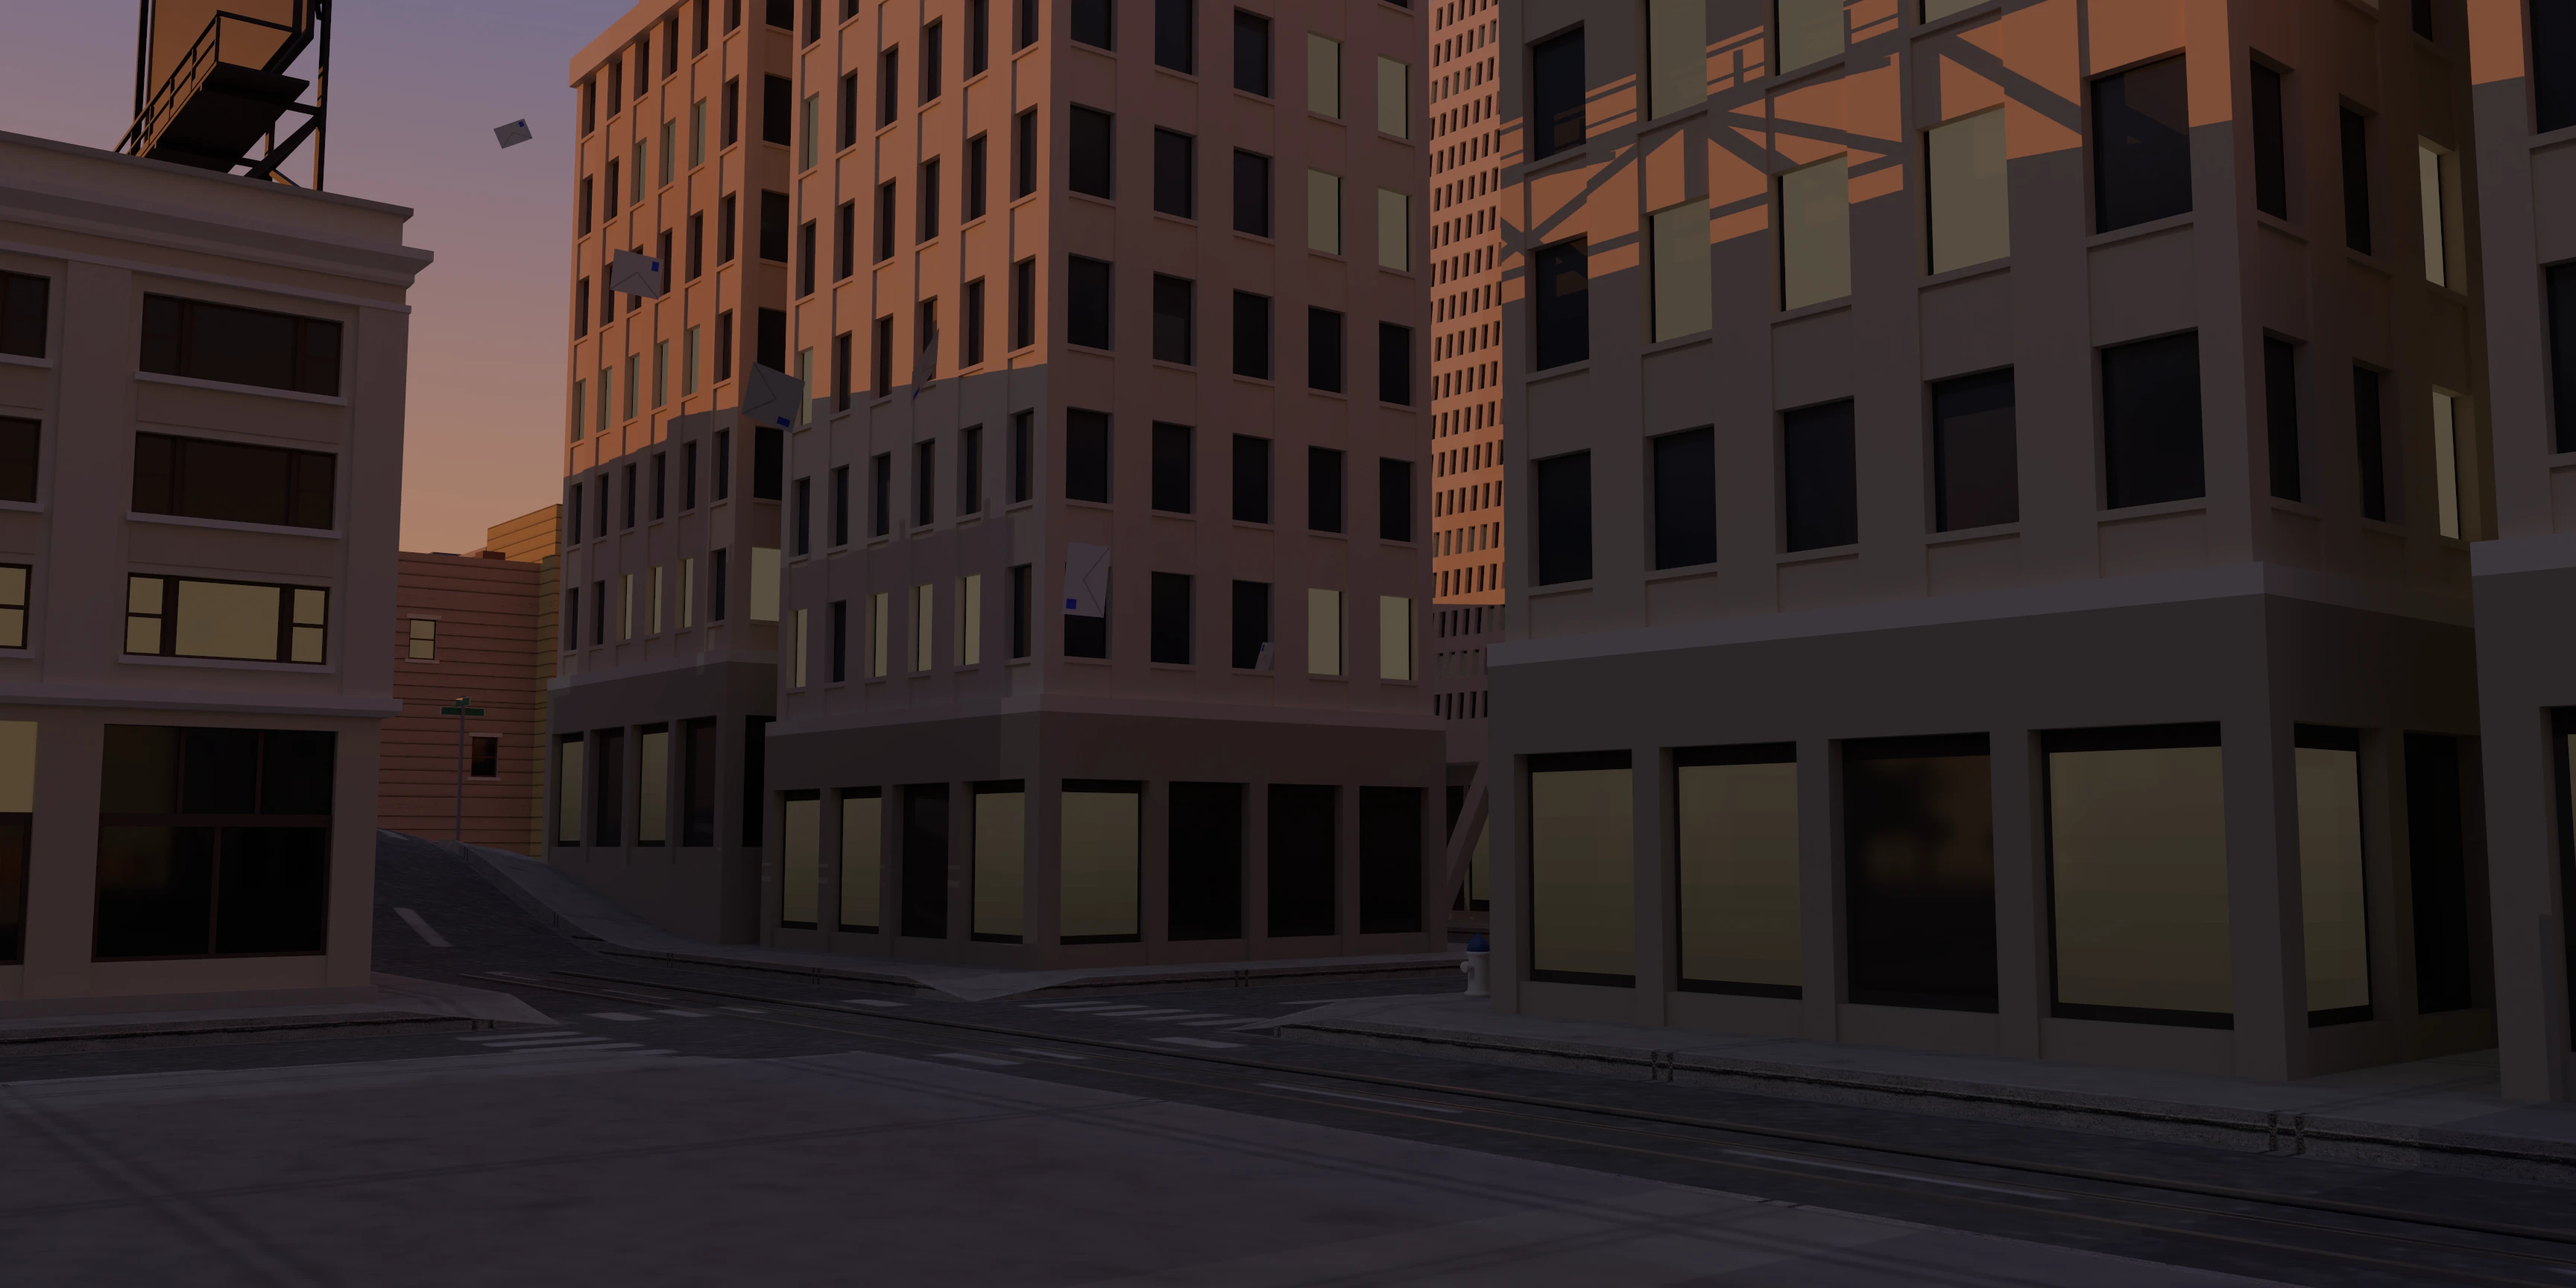
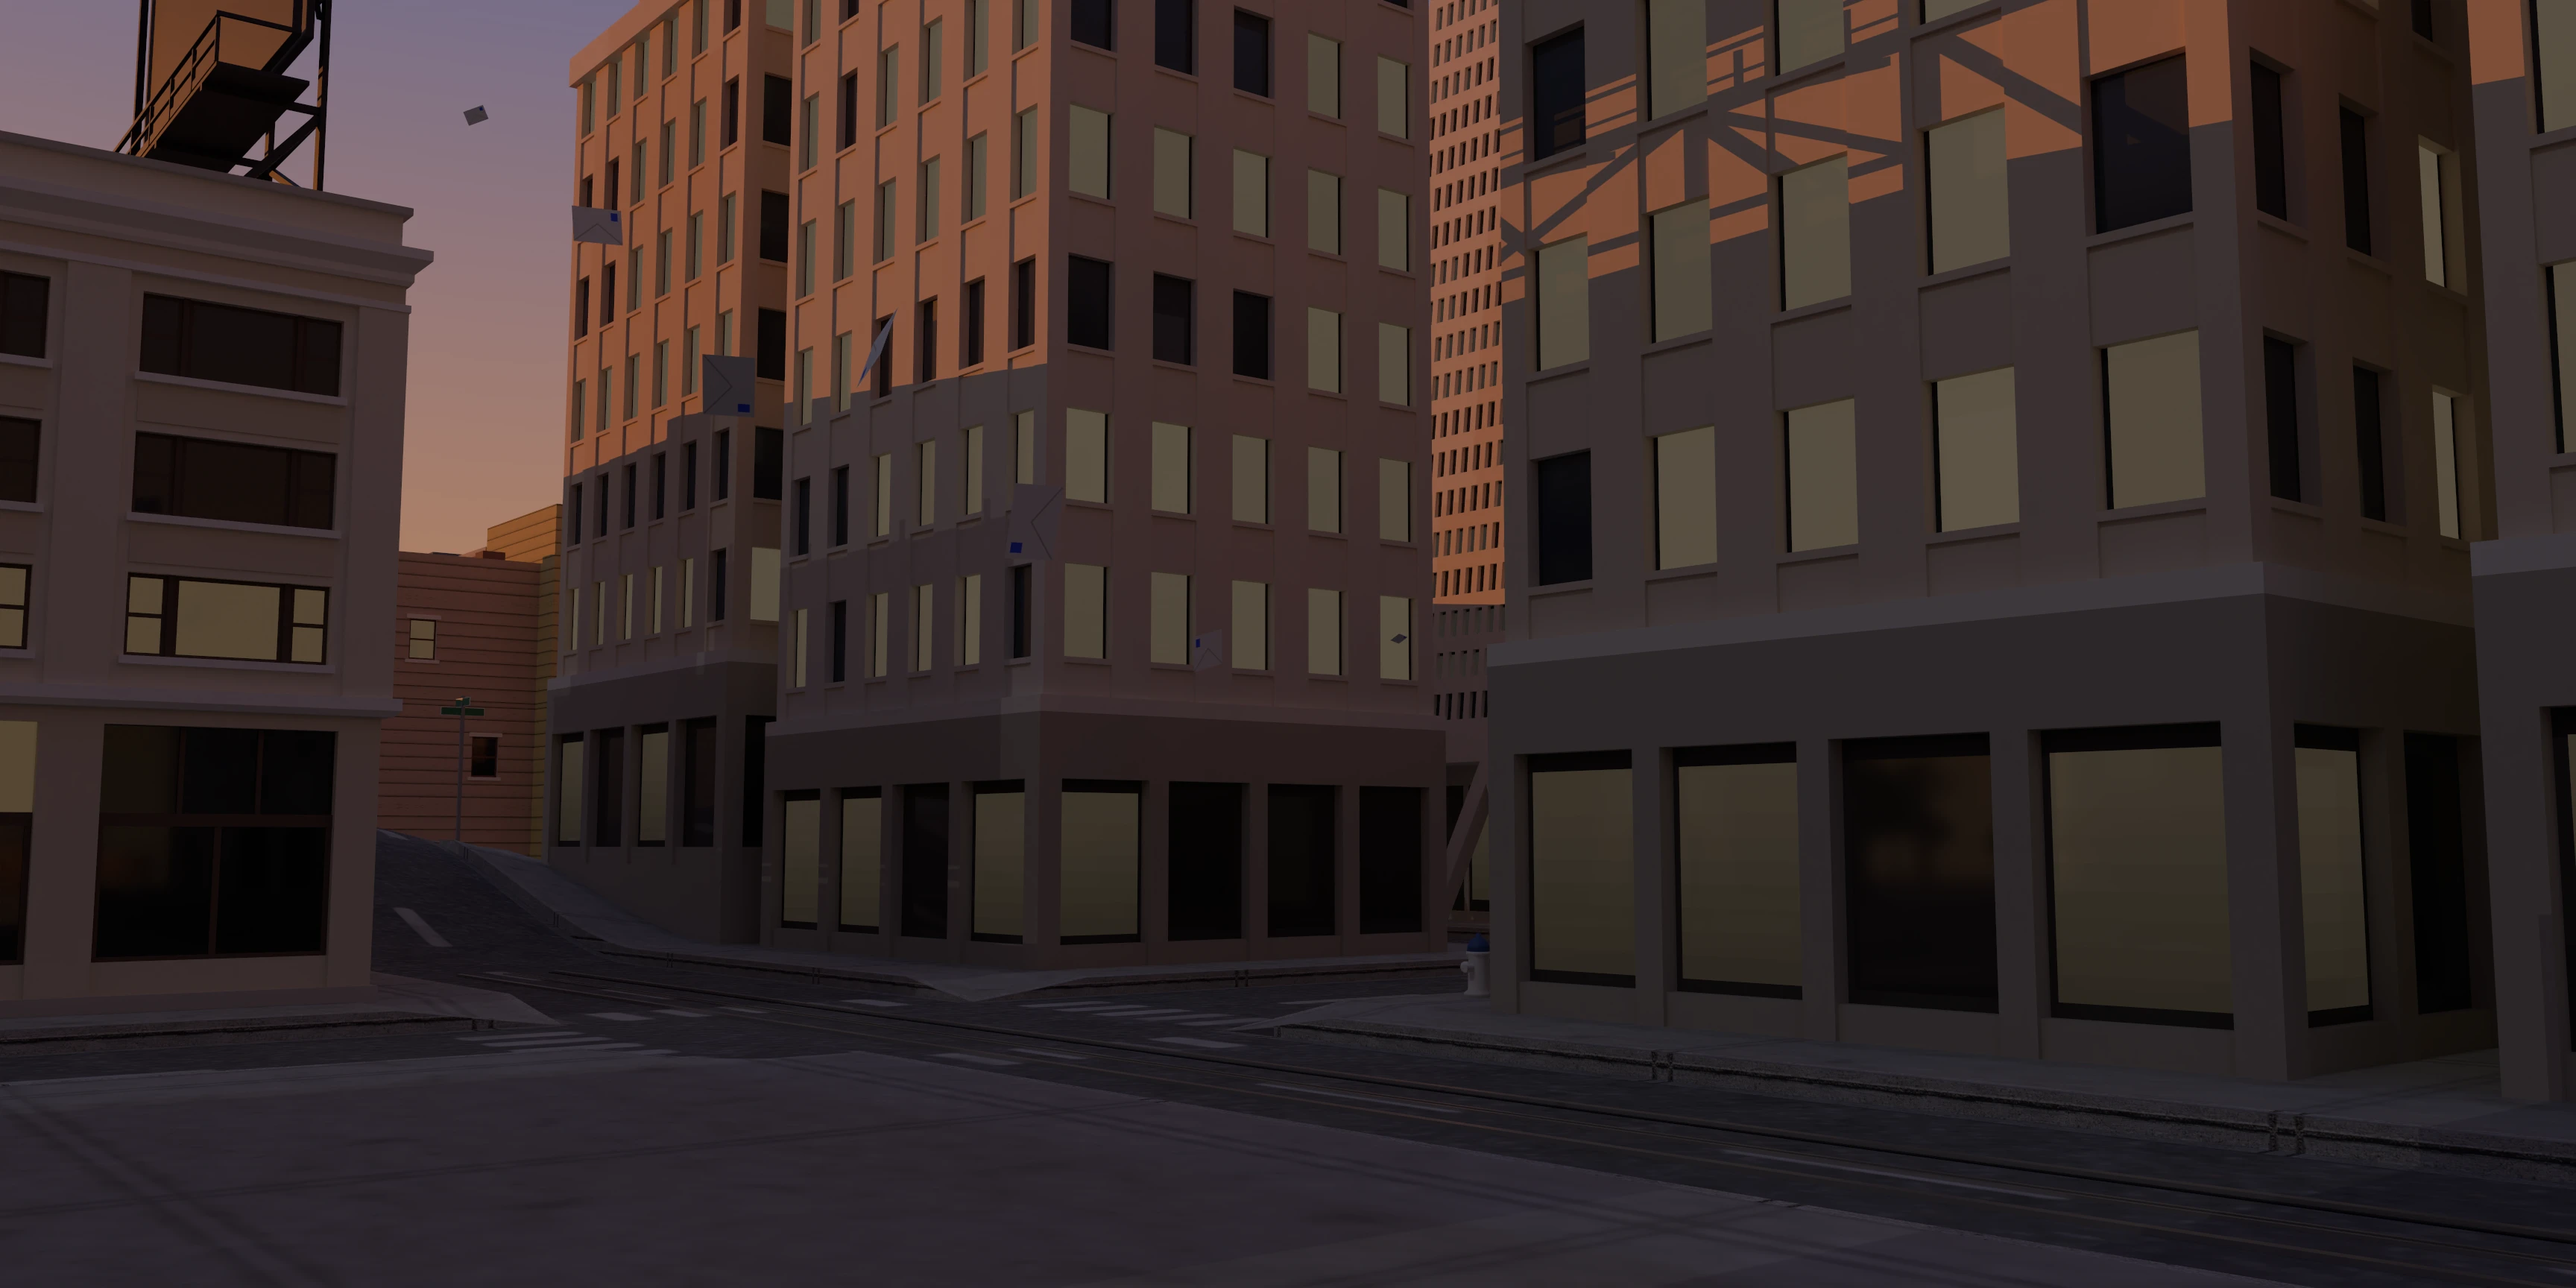
Photo-real: tower windows light as many panes as today's (chapter 5 re-baked)
The window tiles lit 23% of panes; today's towers light 58 to 80% at 18:00
(measured night on vs off on the GPU). The tile now picks a busyness per
floor and lights 70% of punched windows on average (55% of office panes).
Chapter 5's lit-pane pixels: 10,445 before, 22,837 now, 21,336 today.

diff --git a/tests/unit/photoreal.test.ts b/tests/unit/photoreal.test.ts
@@ -4,7 +4,7 @@ import { SLOTS } from "@/scene/house-models";
 import { depthProxy, splitScene } from "@/scene/plates";
 import { CAFE_MAT } from "@/scene/shop";
 import { traceInfo } from "@/scene/trace-info";
-import { FACADE_CELLS } from "@/scene/facade-maps";
+import { FACADE_CELLS, facadeMaps } from "@/scene/facade-maps";
 import { TRACE_LAYER, buildTwins, farCasters, lightHousings, studioFill } from "@/scene/traced";
 import { PART } from "@/scene/towers";
 
@@ -371,6 +371,19 @@ describe("traced twins", () => {
       expect([uv.getX(i), uv.getY(i)]).toEqual([expect.closeTo(u / 4.8, 5), expect.closeTo(pos.getY(i) / 7.2, 5)]);
     }
     expect(twins.length).toBe(2); // walls, and the tops at 0.62
+  });
+
+  it("lights as many windows at 18:00 as today's towers show (60 to 80 percent, measured on the GPU)", () => {
+    for (const kind of ["sash", "steel"] as const) {
+      const lit = facadeMaps(kind).lit.image.data as Uint8Array;
+      const size = Math.sqrt(lit.length / 4);
+      const cell = size / FACADE_CELLS;
+      let on = 0;
+      for (let cy = 0; cy < FACADE_CELLS; cy++) for (let cx = 0; cx < FACADE_CELLS; cx++) on += lit[((cy * cell + cell / 2) * size + cx * cell + cell / 2) * 4] > 0 ? 1 : 0;
+      const share = on / FACADE_CELLS ** 2;
+      expect(share, kind).toBeGreaterThan(0.6);
+      expect(share, kind).toBeLessThan(0.8);
+    }
   });
 
   it("traces the towers' metal (vents, roof decks) dark and matte, as the raster shows it without an environment", () => {

diff --git a/src/scene/facade-maps.ts b/src/scene/facade-maps.ts
@@ -57,14 +57,16 @@ export function facadeMaps(kind: FacadeKind) {
   if (t) return t;
   const size = FACADE_CELLS * PX;
   const [map, orm, lit] = [0, 1, 2].map(() => new Uint8Array(size * size * 4));
-  // runs of lit windows along a floor: four panes on curtain walls, three in punched walls
+  // runs of lit windows along a floor: four panes on curtain walls, three in punched walls. Each floor is busier or
+  // quieter; on average 70% of punched windows light (55% of office panes): what the towers show on the GPU at
+  // 18:00 (measured), not the 40% the shader's hash would give with exact sines
   const run = kind === "curtain" ? 4 : 3;
-  const busyShare = kind === "curtain" ? 0.6 : 0.8;
+  const base = kind === "curtain" ? 0.3 : 0.45;
   for (let cy = 0; cy < FACADE_CELLS; cy++) {
     const busy = hash(cy, 57.1);
     for (let cx = 0; cx < FACADE_CELLS; cx++) {
       const r = hash(cx + 0.31, cy + 0.77);
-      const on = kind === "storefront" || hash(Math.floor(cx / run), cy + 13.3) < busy * busyShare;
+      const on = kind === "storefront" || hash(Math.floor(cx / run), cy + 13.3) < base + 0.5 * busy;
       for (let py = 0; py < PX; py++) {
         for (let px = 0; px < PX; px++) {
           const p = pixel(kind, (px + 0.5) / PX, (py + 0.5) / PX, r, on);

diff --git a/docs/features/photoreal.md b/docs/features/photoreal.md
@@ -33,7 +33,7 @@ All eight chapters ship. Reviewed against today's frame:
 | 2 (09:00 Mission mural) | ships | |
 | 3 (12:00 Union Square) | ships | |
 | 4 (15:00 Pyramid) | ships | |
-| 5 (18:00 Ferry Building) | ships | lit windows a little paler than today's amber |
+| 5 (18:00 Ferry Building) | ships | |
 | 6 (22:00 pier) | ships | |
 | 7 (06:00 tomorrow) | ships | a faint band of real dawn shadow from a downtown tower crosses one street; today's shadow box stops short of it |
 
@@ -59,6 +59,7 @@ What made 0, 2 and 3 right (all in the bake, `traced.ts`, `bake-ground.ts`, `ray
 - A bake catches the camera wherever the rig eased to: check the plate's pose against today's rest view after baking (chapter 4 landed 0.4 m off once; a re-bake landed exactly).
 - Any change to the camera rig can move a rest view off its plate (chapter 3 did): re-run `CHECK=1` for all chapters after one.
 - Lamps: a point light sits inside its glass globe, which blocked every light ray in the trace (the raster's lights cast no shadows), so the pier lamp lit nothing. `lightHousings` finds the small meshes a light sits in and the lab sets the tracer's `visibleToShadowRays` false on them (an object flag; the material `castShadow` the docs mention is not read by the WebGPU tracer).
+- Tower windows at night: the window tiles light 70% of punched windows and 55% of office panes on average, by floor. That is what the towers show on the GPU at 18:00 (measured: 58 to 80% of panes), not the 40% the shader's hash gives with exact sines. At 40% chapter 5's plate had half today's lit panes and read dark.
 - House windows: about half light up at night, warm, by window and house as the shader picks them (the GPU's 32-bit hash picks a similar share, not the same windows).
 - Downtown towers (`downtown`): the vertex tint times a generated window tile per surface kind (curtain wall, sash, steel, shopfront; `facade-maps.ts`), laid on the wall grid (`aUv`) with a whole-cell offset per tower and face. Each tile carries colour, roughness and metalness, and the night's lit windows (runs along busy floors) as an emissive map scaled by the hour's night. Flat tops are tar. Landmark stone (`tower`): the facade tile in world units, like bridge steel.
 
